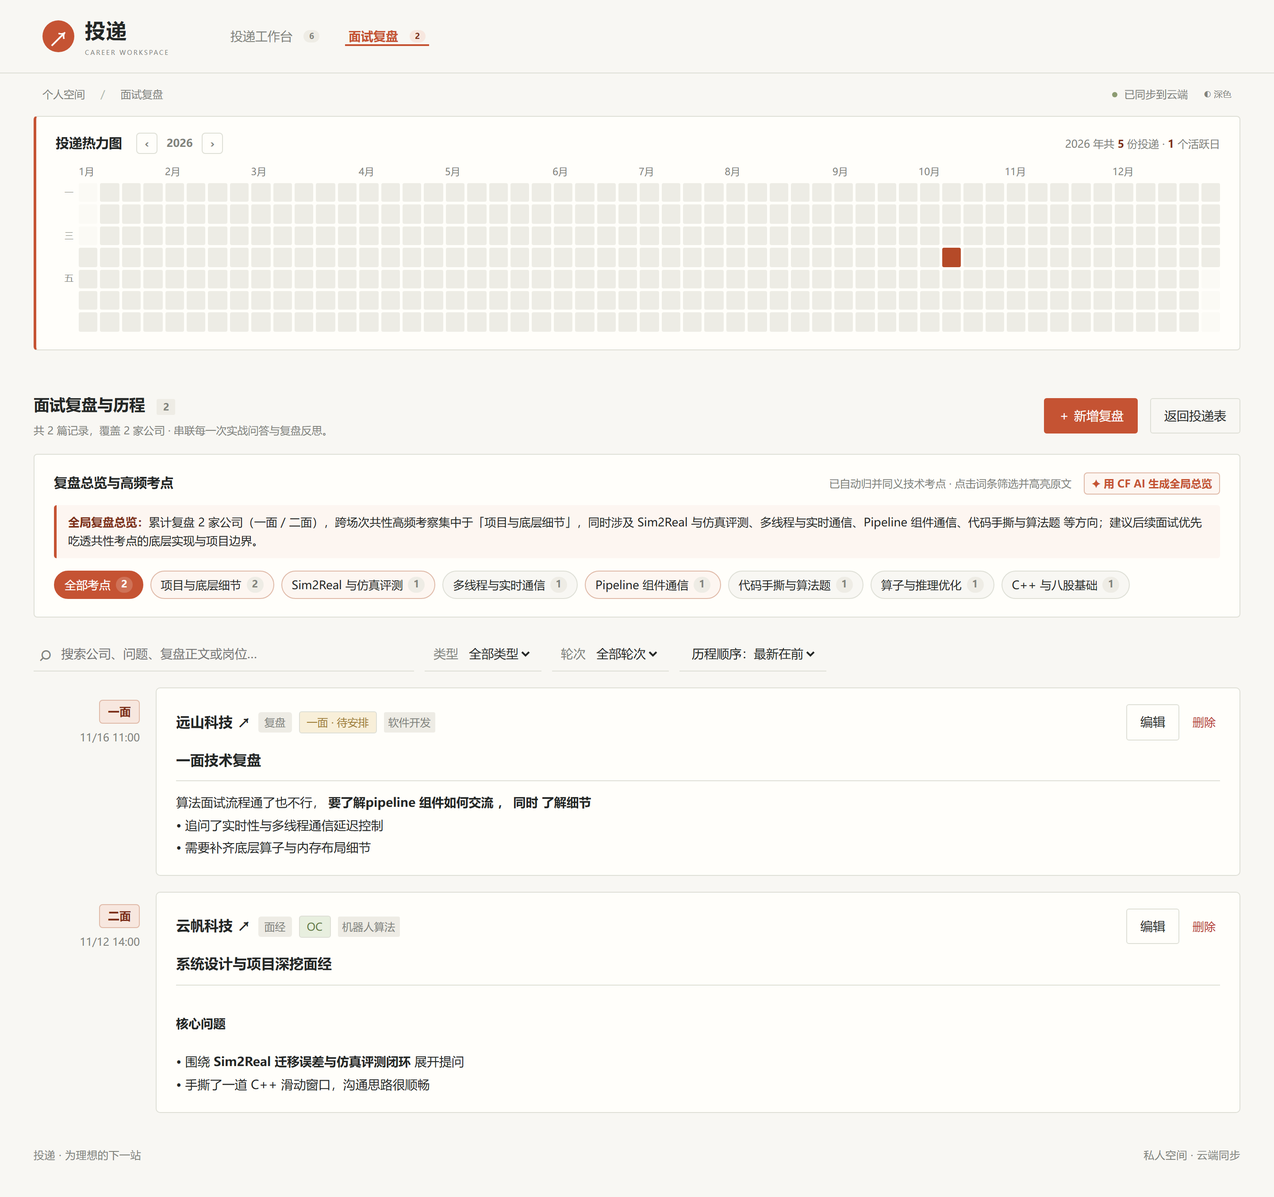
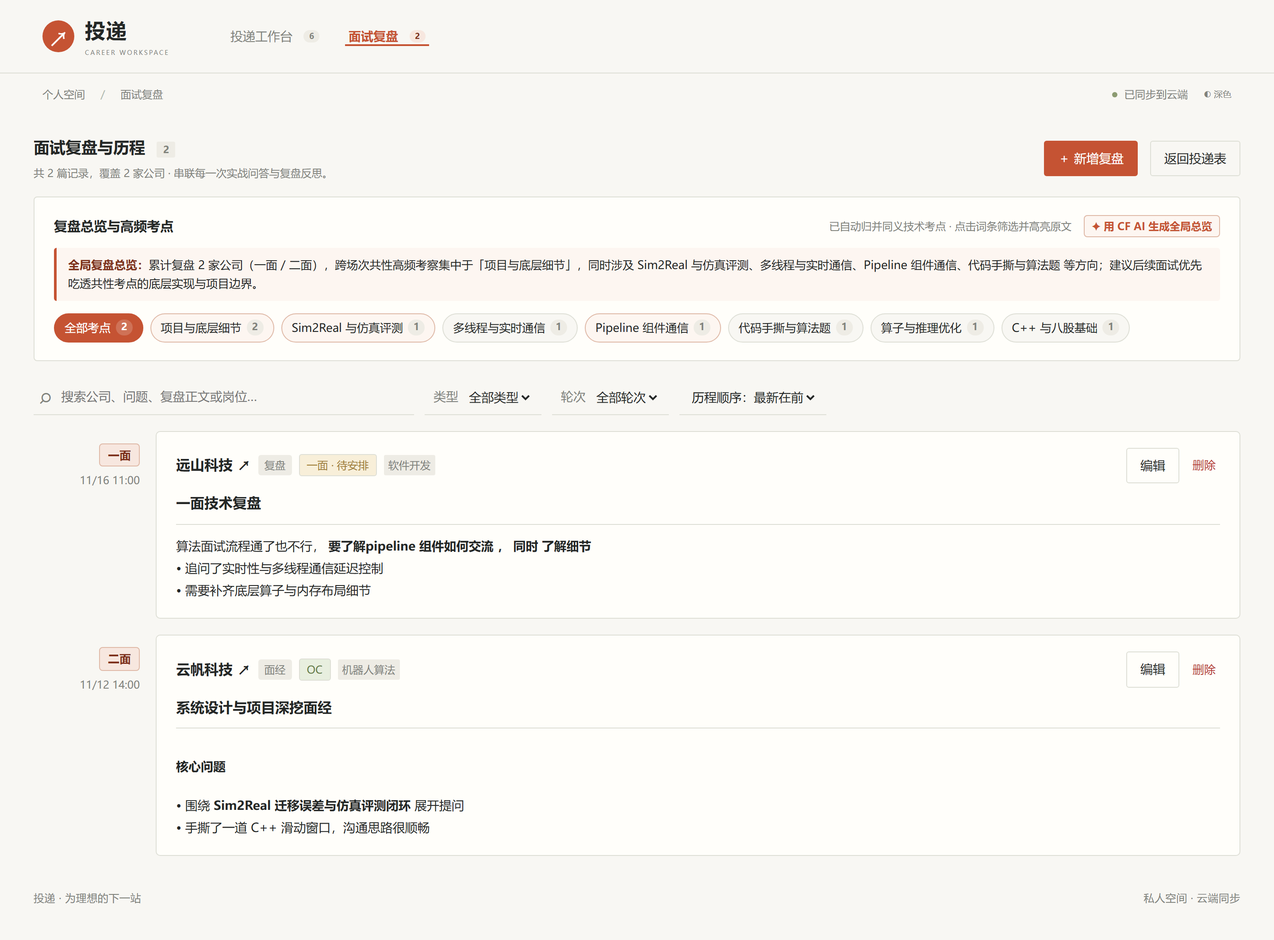
refactor: prioritize the workbench table and collapse auxiliary panels

diff --git a/public/workbench.css b/public/workbench.css
@@ -10,6 +10,12 @@ button.stat{text-align:left;font-family:inherit;cursor:pointer;position:relative
 button.stat.active:after{content:'';position:absolute;bottom:0;left:0;width:44px;height:3px;background:var(--green)}
 button.stat:hover .stat-label,button.stat.active .stat-label{color:var(--green)}
 button.stat:focus-visible{outline:2px solid var(--green);outline-offset:4px}
+.interview-notes.notes-collapsed{margin-top:16px;padding-top:12px}
+.notes-collapsed summary{font-size:15px;font-weight:600;cursor:pointer;list-style:none}
+.notes-collapsed summary::-webkit-details-marker{display:none}
+.notes-collapsed summary::after{content:'＋';float:right;color:var(--green);font-weight:400}
+.notes-collapsed[open] summary::after{content:'−'}
+.notes-collapsed .quiet{margin:10px 0 0}
 .interview-notes{margin-top:28px;padding-top:22px;border-top:1px solid var(--line)}
 .note-shortcut{font-size:12px;color:var(--accent-deep);padding:5px 0;text-align:left}
 .note-list{display:flex;flex-direction:column;gap:6px;margin-bottom:14px}
@@ -48,21 +54,24 @@ input[type=checkbox]{accent-color:var(--green)}
 .star-button[aria-pressed=true]{color:var(--green)}
 td.company-cell{min-width:195px;width:auto}td.role-cell{min-width:170px;width:190px}
 .inline-input[data-field=note]{min-width:140px}
-.phase-label{font-size:12px;color:var(--muted);margin:6px 0 0 5px}
+.phase-label{font-size:12px;color:var(--muted);margin:3px 0 0 5px}
 .meeting-cell{min-width:155px}
 .add-meeting{border:1px dashed var(--accent-line);background:transparent;color:var(--green);border-radius:4px;padding:6px 9px;white-space:nowrap;font-size:12px}
 .meeting-date{border:0;background:none;text-align:left;padding:5px 0;max-width:180px}
 .meeting-date strong{display:block;font-size:13px;font-weight:600;font-variant-numeric:tabular-nums}
 .meeting-date small{display:block;color:var(--muted);font-size:12px;margin-top:5px;overflow-wrap:anywhere}
-.date-label{display:block;font-size:11px;color:var(--muted);margin-left:6px}
+.date-label{display:block;font-size:10px;line-height:1.2;color:var(--muted);margin:1px 0 0 5px}
+.date-field{position:relative;display:block;max-width:124px}
+.date-field[data-empty="true"]::after{content:'年 / 月 / 日';position:absolute;left:6px;top:50%;transform:translateY(-50%);color:var(--muted);font-size:12px;pointer-events:none}
+.date-field[data-empty="true"] .inline-input[type="date"],.date-field[data-empty="true"] .inline-input[type="date"]::-webkit-datetime-edit{color:transparent}
 .date .inline-input[type=date]{padding-top:3px;padding-bottom:3px}
 .row-actions{display:flex;align-items:center;gap:5px}
 .history-button{border:0;background:none;color:var(--green);font-size:12px;padding:6px 0;white-space:nowrap}
 .company-details>td{padding:0;background:var(--soft)}
-.details-grid{display:grid;grid-template-columns:1.1fr 1fr;gap:32px;padding:24px 28px 28px 38px}
+.details-grid{display:grid;grid-template-columns:minmax(0,1.1fr) minmax(0,1fr);align-items:start;gap:28px;padding:18px 24px 20px 32px}
 .details-grid h3{font-size:15px;font-weight:600;margin:0 0 14px}
 .history-list{list-style:none;margin:0;padding:0}
-.history-list li{position:relative;border-left:1px solid var(--line);padding:0 0 24px 20px;margin-left:4px;font-size:15px;color:var(--ink)}
+.history-list li{position:relative;border-left:1px solid var(--line);padding:0 0 18px 20px;margin-left:4px;font-size:15px;color:var(--ink)}
 .history-list li:last-child{border-color:transparent;padding-bottom:0}
 .history-list li:before{content:'';position:absolute;width:7px;height:7px;background:var(--muted);border-radius:50%;left:-4px;top:11px}
 .history-list li:first-child:before{background:var(--green)}
@@ -73,6 +82,7 @@ td.company-cell{min-width:195px;width:auto}td.role-cell{min-width:170px;width:19
 .history-context{font-size:14px;font-weight:500;color:var(--ink)}
 .history-meta{font-size:13px;line-height:1.7;color:var(--muted);margin-top:7px}
 .history-meta .text-btn{display:inline;padding:0 0 0 8px;font-size:13px;color:var(--accent-deep)}
+.meeting-form .quiet{margin:0 0 6px}
 .meeting-form{padding-left:28px;border-left:1px solid var(--line)}
 .meeting-phase{font-size:13px;color:var(--ink);margin-bottom:12px}
 .meeting-fields{display:grid;grid-template-columns:1.2fr 1fr;gap:12px}
@@ -156,15 +166,20 @@ td.company-cell{min-width:195px;width:auto}td.role-cell{min-width:170px;width:19
 .review-card-body{margin-top:8px;border:0;border-top:1px solid var(--line);padding:12px 0 0;background:transparent}
 
 /* Application heatmap (GitHub-style contribution grid) */
-.heatmap-strip{margin:0 0 26px;padding:18px 22px;background:var(--surface);border:1px solid var(--line);border-left:3px solid var(--accent);border-radius:4px}
-.heatmap-head{display:flex;justify-content:space-between;align-items:baseline;gap:12px;flex-wrap:wrap;margin-bottom:12px}
-.heatmap-head h2{font-size:15px;font-weight:600;margin:0}
+.heatmap-strip{margin:0 0 26px;padding:10px 18px;background:var(--surface);border:1px solid var(--line);border-left:3px solid var(--accent);border-radius:4px}
+.heatmap-head{display:flex;align-items:center;gap:12px;cursor:pointer;list-style:none;user-select:none}
+.heatmap-head::-webkit-details-marker{display:none}
+.heatmap-head h2{font-size:15px;font-weight:600;margin:0;flex:none}
+.heatmap-head #heatmap-summary{margin-left:auto;text-align:right}
 .heatmap-head span{font-size:12px;color:var(--muted)}
 .heatmap-head b{color:var(--accent-deep);font-variant-numeric:tabular-nums}
+.heatmap-toggle{font-size:15px;transition:transform .15s}
+.heatmap-strip[open] .heatmap-toggle{transform:rotate(180deg)}
+.heatmap-strip[open] .heatmap-head{margin-bottom:10px}
+.heatmap-open-head{display:flex;justify-content:flex-end;margin-bottom:8px}
 .heatmap-scroll{overflow-x:auto;padding-bottom:2px;scrollbar-width:none}
 .heatmap-scroll::-webkit-scrollbar{display:none}
 .heatmap-inner{min-width:100%;display:flex;flex-direction:column;gap:6px}
-.heatmap-title{display:flex;align-items:center;gap:16px}
 .heatmap-nav{display:inline-flex;align-items:center;gap:6px;font-size:13px;font-weight:600;color:var(--ink)}
 .heatmap-nav button{width:24px;height:24px;line-height:1;border:1px solid var(--line);border-radius:4px;background:var(--surface);color:var(--muted);cursor:pointer;padding:0}
 .heatmap-nav button:hover{border-color:var(--accent);color:var(--accent)}

diff --git a/public/index.html b/public/index.html
@@ -14,14 +14,13 @@
   <div class="content">
     <div id="notice" class="notice" role="status" hidden></div><div class="recovery" id="recovery" hidden><span>此浏览器有尚未同步的修改。</span><button class="btn primary" id="recover">保留本机修改并同步</button><button class="btn" id="discard-pending">用云端最新数据</button><button class="btn" id="backup-pending">备份未同步数据</button></div>
     <section class="stats" id="stats" aria-label="投递统计"></section>
-    <section class="heatmap-strip"><div class="heatmap-head"><div class="heatmap-title"><h2>投递热力图</h2><div class="heatmap-nav"><button type="button" id="heat-prev" aria-label="上一年">‹</button><span id="heatmap-year"></span><button type="button" id="heat-next" aria-label="下一年">›</button></div></div><span id="heatmap-summary">近一年的投递节奏</span></div><div class="heatmap-scroll"><div class="heatmap-inner"><div class="heat-months" id="heat-months"></div><div class="heat-body"><div class="heat-weekdays" id="heat-weekdays"></div><div id="heatmap" class="heatmap" role="img" aria-label="按天统计的投递热力图"></div></div></div></div></section>
     <section class="agenda-strip"><h2>近期安排</h2><div id="agenda"></div></section><section class="overview"><div class="progress-panel"><div class="section-title"><h2>你的求职进度</h2><span>每一份投递，都是新的可能</span></div><div id="pipeline" class="pipeline"></div></div><div class="deadline-panel"><div class="section-title"><h2>近期截止</h2><span class="tag">未来 7 天</span></div><div id="upcoming"></div></div></section>
     <section class="records"><div class="records-head"><div><h2 id="view-title">全部投递 <span id="resultcount">0</span></h2><p>机会与进展，在这里有序发生。</p></div><div class="records-actions"><div class="add-actions"><button class="btn primary" id="add">＋ 新增投递</button><details class="data-menu add-menu"><summary class="btn primary" aria-label="更多新增方式">▾</summary><div><button id="bulk-open">批量录入公司</button></div></details></div><details class="data-menu"><summary class="btn">数据管理 ↓</summary><div><button id="trash-open">回收站</button><button id="expcsv">导出 CSV</button><button id="expjson">备份 JSON</button><button id="impjson">恢复备份</button><button id="reload">重新载入云端</button><button id="local-mode">仅在此浏览器使用</button></div></details></div></div>
 
       <div class="toolbar"><label class="search"><span>⌕</span><input id="q" type="search" aria-label="搜索投递" placeholder="搜索公司、岗位、部门或备注…"></label><label class="star-filter"><input id="starfilter" type="checkbox">仅看星标</label><label class="select-wrap"><span>状态</span><select id="statusfilter" aria-label="按状态筛选"><option value="">全部状态</option></select></label><label class="select-wrap"><select id="sort" aria-label="排序"><option value="added">记录顺序：新增在前</option><option value="updated">最近编辑在前</option><option value="applied">投递时间：最新在前</option><option value="deadline">截止日期</option><option value="name">公司名称</option><option value="status">投递进度</option></select></label></div>
       <div class="tablewrap"><table><thead><tr><th>公司 / 链接</th><th>岗位 / 部门</th><th>投递进度</th><th>下一场面试</th><th>截止 / 投递日期</th><th>备注</th><th><span class="sr-only">操作</span></th></tr></thead><tbody id="rows"></tbody></table><div class="empty" id="empty" hidden><span>↗</span><h3>下一份机会，从这里开始</h3><p>记下感兴趣的公司，让每一次投递都有迹可循。</p><button class="btn primary" id="empty-add">＋ 新增投递</button></div></div>
       <footer class="tablefoot"><span id="footcount">共 0 条记录</span><span>直接填写 · 自动保存</span></footer>
-    </section><section class="reviews-page" id="reviews-page" hidden></section><footer class="pagefoot"><span>投递 · 为理想的下一站</span><span id="storage-label">你的个人求职工作台</span></footer>
+    </section><details class="heatmap-strip" id="heatmap-details"><summary class="heatmap-head"><h2>投递热力图</h2><span id="heatmap-summary">近一年的投递节奏</span><span class="heatmap-toggle" aria-hidden="true">⌄</span></summary><div class="heatmap-open-head"><div class="heatmap-nav"><button type="button" id="heat-prev" aria-label="上一年">‹</button><span id="heatmap-year"></span><button type="button" id="heat-next" aria-label="下一年">›</button></div></div><div class="heatmap-scroll"><div class="heatmap-inner"><div class="heat-months" id="heat-months"></div><div class="heat-body"><div class="heat-weekdays" id="heat-weekdays"></div><div id="heatmap" class="heatmap" role="img" aria-label="按天统计的投递热力图"></div></div></div></div></details><section class="reviews-page" id="reviews-page" hidden></section><footer class="pagefoot"><span>投递 · 为理想的下一站</span><span id="storage-label">你的个人求职工作台</span></footer>
   </div>
 </main>
 

diff --git a/public/editorial.css b/public/editorial.css
@@ -77,12 +77,12 @@ main{margin:0}
 .pagehead .btn{padding:11px 20px;margin-bottom:6px}
 .btn{border-radius:3px;border-color:var(--line);background:transparent;font-size:11px}
 .btn.primary,:root[data-theme="dark"] .btn.primary{background:var(--accent);border-color:var(--accent);color:#fff;font-weight:500}
-.stats{gap:0;margin:0 0 24px;border-bottom:1px solid var(--line);background:transparent}
+.stats{gap:0;margin:0 0 16px;border-bottom:1px solid var(--line);background:transparent}
 .stat,.stat:first-child,:root[data-theme="dark"] .stat:first-child{border:0;border-right:1px solid var(--line);border-radius:0;background:transparent;color:var(--ink);padding:23px 25px 23px 0;margin:20px 25px 20px 0}
 .stat:last-child{border-right:0;margin-right:0;padding-right:0}
 .stat-label,.stat:first-child .stat-label,:root[data-theme="dark"] .stat:first-child .stat-label{color:var(--muted);font-size:11px;letter-spacing:1px}
 .stat-label i{font-size:16px;color:var(--muted);font-style:normal}
-.stat strong{font-family:inherit;font-weight:600;font-size:44px;line-height:1.65;letter-spacing:-1px;font-variant-numeric:tabular-nums}
+.stat strong{font-family:inherit;font-weight:600;font-size:32px;line-height:1.4;letter-spacing:-1px;font-variant-numeric:tabular-nums}
 .stat:first-child strong{color:var(--accent)}
 .stat small,.stat:first-child small,:root[data-theme="dark"] .stat:first-child small{color:var(--muted);font-size:9px}
 .overview{grid-template-columns:1.6fr 1fr;gap:38px;margin-bottom:30px}
@@ -118,8 +118,8 @@ main{margin:0}
 .tablewrap{border-top:1px solid var(--line);background:var(--surface)}
 th{background:var(--table-head);color:var(--muted);letter-spacing:1px;font-size:9px;padding:12px 10px;font-weight:500}
 th:first-child,td:first-child{padding-left:15px}
-td{padding:13px 10px;border-color:var(--line)}
-.inline-input{border-radius:2px}
+td{padding:9px 10px;border-color:var(--line)}
+.inline-input{border-radius:2px;padding:4px 5px}
 .inline-input.company-name{font-weight:550}
 .inline-input:focus{border-color:var(--accent);box-shadow:0 0 0 2px var(--accent-soft)}
 .inline-input[data-field="link"],.inline-input[data-field="dept"]{color:var(--muted);font-size:10px}
@@ -153,7 +153,7 @@ td{padding:13px 10px;border-color:var(--line)}
 .pagehead .eyebrow{font-size:8px;letter-spacing:1px}
 .stat,.stat:first-child,:root[data-theme="dark"] .stat:first-child{padding:12px 12px 12px 0;margin:10px 12px 10px 0}
 .stat:nth-child(2){border-right:0}
-.stat strong{font-size:37px}
+.stat strong{font-size:30px}
 .stat small{font-size:8px}
 .stats{margin-bottom:20px}
 .overview{grid-template-columns:1fr;gap:23px}
@@ -174,7 +174,7 @@ td{padding:13px 10px;border-color:var(--line)}
 
 
 /* Put status counts directly below navigation. */
-.content{padding-top:0}.stats{border-top:1px solid var(--line)}.stat,.stat:first-child,:root[data-theme="dark"] .stat:first-child{margin-top:12px;margin-bottom:15px;padding-top:12px;padding-bottom:16px}@media(max-width:760px){.stat,.stat:first-child,:root[data-theme="dark"] .stat:first-child{margin-top:8px;margin-bottom:8px;padding-top:8px;padding-bottom:10px}}
+.content{padding-top:0}.stats{border-top:1px solid var(--line)}.stat,.stat:first-child,:root[data-theme="dark"] .stat:first-child{margin-top:8px;margin-bottom:10px;padding-top:8px;padding-bottom:10px}@media(max-width:760px){.stat,.stat:first-child,:root[data-theme="dark"] .stat:first-child{margin-top:6px;margin-bottom:6px;padding-top:6px;padding-bottom:8px}}
 
 /* Comfortable type sizes across the workbench. */
 .nav{font-size:14px}
@@ -187,7 +187,7 @@ td{padding:13px 10px;border-color:var(--line)}
 th{font-size:13px;letter-spacing:0;font-weight:600}
 .inline-input.company-name{font-size:15px;font-weight:600}
 .inline-input[data-field="link"],.inline-input[data-field="dept"],.inline-input[type="date"],.inline-input::placeholder,.placeholder,.role-chip,.role-choice,.role-add input,.upcoming-item small,.due{font-size:12px;color:var(--muted)}
-.inline-input[type="date"]{width:145px}
+.inline-input[type="date"]{width:124px}
 .inline-status{font-size:13px;width:92px}
 @media(max-width:760px){.nav{font-size:13px}.topbar,.saveflag{font-size:11px}.section-title>span{font-size:11px}}
 

diff --git a/public/app.js b/public/app.js
@@ -284,7 +284,10 @@ function renderTable() {
     $('view-title').innerHTML = ({ all: '全部投递', todo: '待投清单', live: '进行中', oc: '收获 Offer' }[view]) + ` <span>${list.length}</span>`;
     $('rows').innerHTML = list.map(co => {
         const remaining = days(co.deadline);
-        const input = (field, placeholder = '', type = 'text') => `<input class="inline-input ${field === 'name' ? 'company-name' : ''}" data-field="${field}" data-id="${esc(co.id)}" aria-label="${esc(co.name || '新投递')} ${({ name: '公司名称', link: '投递链接', dept: '部门', deadline: '截止日期', appliedAt: '投递时间', note: '备注' })[field]}" type="${type}" value="${esc(co[field])}" placeholder="${placeholder}" maxlength="${field === 'note' ? 5000 : 2000}">`;
+        const input = (field, placeholder = '', type = 'text') => {
+            const markup = `<input class="inline-input ${field === 'name' ? 'company-name' : ''}" data-field="${field}" data-id="${esc(co.id)}" aria-label="${esc(co.name || '新投递')} ${({ name: '公司名称', link: '投递链接', dept: '部门', deadline: '截止日期', appliedAt: '投递时间', note: '备注' })[field]}" type="${type}" ${type === 'date' ? 'lang="zh-CN"' : ''} value="${esc(co[field])}" placeholder="${placeholder}" maxlength="${field === 'note' ? 5000 : 2000}">`;
+            return type === 'date' ? `<span class="date-field" data-date-wrap="${field}" data-id="${esc(co.id)}" data-empty="${co[field] ? 'false' : 'true'}">${markup}</span>` : markup;
+        };
         return `<tr data-row="${esc(co.id)}" class="${co.starred ? 'starred-row' : ''}"><td class="company-cell"><div class="company-with-star"><button type="button" class="star-button" data-star="${esc(co.id)}" aria-label="${co.starred ? '取消' : '添加'}星标 ${esc(co.name)}" aria-pressed="${!!co.starred}">${co.starred ? '★' : '☆'}</button><div>${input('name', '公司名称…')}${input('link', '投递链接 / 来源')}</div></div></td><td class="role-cell"><details class="role-select" data-role-menu="${esc(co.id)}"><summary>${roleSummary(co)}</summary>${roleMenuMarkup(co)}</details>${input('dept', '部门 / 团队')}</td><td><select class="inline-status ${statusClass(co.status)}" data-status="${esc(co.id)}" aria-label="${esc(co.name || '新投递')} 投递状态">${STATUSES.map(s => `<option ${co.status === s ? 'selected' : ''}>${s}</option>`).join('')}</select><div class="phase-label">${phaseName(co)}</div></td><td class="meeting-cell">${renderMeetingCell(co)}</td><td class="date"><label class="date-label">截止</label>${input('deadline', '', 'date')}<span class="due ${remaining < 0 ? 'late' : ''}" data-due>${dueText(co.deadline)}</span><label class="date-label">投递</label>${input('appliedAt', '', 'date')}</td><td>${input('note', '内推码、面试安排…')}</td><td><div class="row-actions"><button type="button" class="history-button" data-history="${esc(co.id)}" aria-expanded="${openedCompany===co.id}">${openedCompany===co.id ? '收起 ⌃' : '历史 ⌄'}</button><button class="delete-row" data-delete="${esc(co.id)}" aria-label="删除 ${esc(co.name || '此记录')}">×</button></div></td></tr>` + (openedCompany===co.id ? renderCompanyDetails(co) : '');
     }).join('');
     $('empty').hidden = !!list.length;
@@ -402,8 +405,10 @@ $('rows').addEventListener('input', e => {
         return;
     co[field] = e.target.value;
     touchCompany(co);
+    const dateWrap = e.target.closest?.('[data-date-wrap]');
+    if (dateWrap) dateWrap.dataset.empty = e.target.value ? 'false' : 'true';
     if (field === 'deadline') {
-        const due = e.target.parentElement.querySelector('[data-due]');
+        const due = e.target.closest('td').querySelector('[data-due]');
         due.textContent = dueText(co.deadline);
         due.classList.toggle('late', days(co.deadline) < 0);
     }

diff --git a/public/workbench.js b/public/workbench.js
@@ -86,7 +86,9 @@ function renderMeetingTime(id, value='') {
 function renderCompanyDetails(co) {
     const m=co.interview||emptyInterview(), local=timeInput(m.at), id=esc(co.id);
     const form=isInterview(co.status)?`<div class="meeting-phase">${esc(co.status)} · ${phaseName(co)}</div><div class="meeting-fields"><label>面试日期<input type="date" data-meeting-date="${id}" value="${local.slice(0,10)}" required></label><label>时间${renderMeetingTime(co.id,local.slice(11))}</label><label class="meeting-location">会议链接 / 地点<input data-meeting-location="${id}" value="${esc(m.location)}" placeholder="稍后补充也可以" maxlength="2000"></label></div><div class="meeting-actions"><button type="button" class="btn primary" data-save-meeting="${id}">${m.phase==='scheduled'?'保存安排':'确认面试时间'}</button>${m.phase==='scheduled'?`<button type="button" class="btn" data-complete-meeting="${id}">标记已完成</button>`:''}${m.at?`<button type="button" class="text-btn" data-cancel-meeting="${id}">取消安排</button>`:''}</div><p class="meeting-help">先记录阶段进展，面试时间可以稍后补充。</p>`:'<p class="quiet">进入面试阶段后，可在此补充面试时间。</p>';
-    return `<tr class="company-details"><td colspan="7"><div class="details-grid"><section><div class="section-title"><h3>进展时间线</h3><span>最新在前</span></div><div data-history-list="${id}">${historyMarkup(co.id)}</div></section><section class="meeting-form"><h3>面试安排</h3>${form}${renderNoteEditor(co)}</section></div></td></tr>`;
+    const hasNotes=(state.notes||[]).some(n=>n.companyId===co.id);
+    const notesSection=hasNotes?renderNoteEditor(co):`<details class="interview-notes notes-collapsed"><summary>面试记录</summary><p class="quiet">在左侧面试历史旁点「写面试记录」，记下面经、复盘或碎碎念。</p></details>`;
+    return `<tr class="company-details"><td colspan="7"><div class="details-grid"><section><div class="section-title"><h3>进展时间线</h3><span>最新在前</span></div><div data-history-list="${id}">${historyMarkup(co.id)}</div></section><section class="meeting-form"><h3>面试安排</h3>${form}${notesSection}</section></div></td></tr>`;
 }
 function renderAgenda() {
     const node=$('agenda');if(!node)return;

diff --git a/e2e/workbench.spec.js b/e2e/workbench.spec.js
@@ -12,6 +12,9 @@ test('dashboard renders stats, company table and heatmap', async ({ page }) => {
     await expect(page.locator('#rows tr[data-row]')).toHaveCount(6);
     await expect(page.locator('#view-title')).toContainText('全部投递');
 
+    // Heatmap is collapsed by default; summary is visible before expanding it.
+    await expect(page.locator('#heatmap-summary')).toContainText('份投递');
+    await page.locator('#heatmap-details > summary').click();
     // Heatmap: current calendar year, navigation, labels and square cells.
     await expect(page.locator('#heatmap-year')).toHaveText(String(new Date().getFullYear()));
     await expect(page.locator('#heatmap .heat-cell').first()).toBeVisible();
@@ -22,6 +25,7 @@ test('dashboard renders stats, company table and heatmap', async ({ page }) => {
 
 test('heatmap year navigation switches the displayed year', async ({ page }) => {
     const year = new Date().getFullYear();
+    await page.locator('#heatmap-details > summary').click();
     await page.locator('#heat-prev').click();
     await expect(page.locator('#heatmap-year')).toHaveText(String(year - 1));
     await expect(page.locator('#heatmap-summary')).toContainText(`${year - 1} 年共`);
@@ -51,6 +55,7 @@ test('search filters companies', async ({ page }) => {
 test('interview reviews page shows timeline and hotword chips', async ({ page }) => {
     await page.locator('[data-page="reviews"]').click();
     await expect(page.locator('#reviews-page')).toBeVisible();
+    await expect(page.locator('.heatmap-strip')).toBeHidden();
     await expect(page.locator('#reviews-page')).toContainText('面试复盘与历程');
     await expect(page.locator('.review-item')).toHaveCount(2);
     await expect(page.locator('#reviews-page')).toContainText('复盘总览与高频考点');

diff --git a/public/app.css b/public/app.css
@@ -256,7 +256,7 @@ td.role-cell{width:230px;min-width:200px}
 .inline-status.out{background:#f7eeee;color:#ae7a73}
 .delete-row{background:none;border:0;font-size:20px;color:var(--muted);padding:5px;cursor:pointer}
 .delete-row:hover{color:var(--danger)}
-.role-select summary{display:flex;flex-wrap:wrap;gap:3px;align-items:center;cursor:pointer;list-style:none;padding:6px;min-height:30px;border:1px solid transparent;border-radius:5px}
+.role-select summary{display:flex;flex-wrap:wrap;gap:3px;align-items:center;cursor:pointer;list-style:none;padding:4px;min-height:26px;border:1px solid transparent;border-radius:5px}
 .role-select summary:hover{border-color:var(--line)}
 .role-select summary::-webkit-details-marker{display:none}
 .role-chip{font-size:9px;background:var(--green-soft);color:var(--green);border-radius:4px;padding:2px 5px;max-width:200px;overflow-wrap:anywhere}

diff --git a/public/interview-notes.js b/public/interview-notes.js
@@ -270,7 +270,7 @@ function switchPage(page, shouldRender=true) {
             btn.classList?.toggle('active',active);
             btn.setAttribute?.('aria-pressed',String(active));
         });
-        document.querySelectorAll('.stats, .agenda-strip, .records').forEach(sec=>{sec.hidden=currentPage==='reviews';});
+        document.querySelectorAll('.stats, .heatmap-strip, .agenda-strip, .records').forEach(sec=>{sec.hidden=currentPage==='reviews';});
     }
     const reviewsNode=$('reviews-page');
     if(reviewsNode)reviewsNode.hidden=currentPage!=='reviews';
